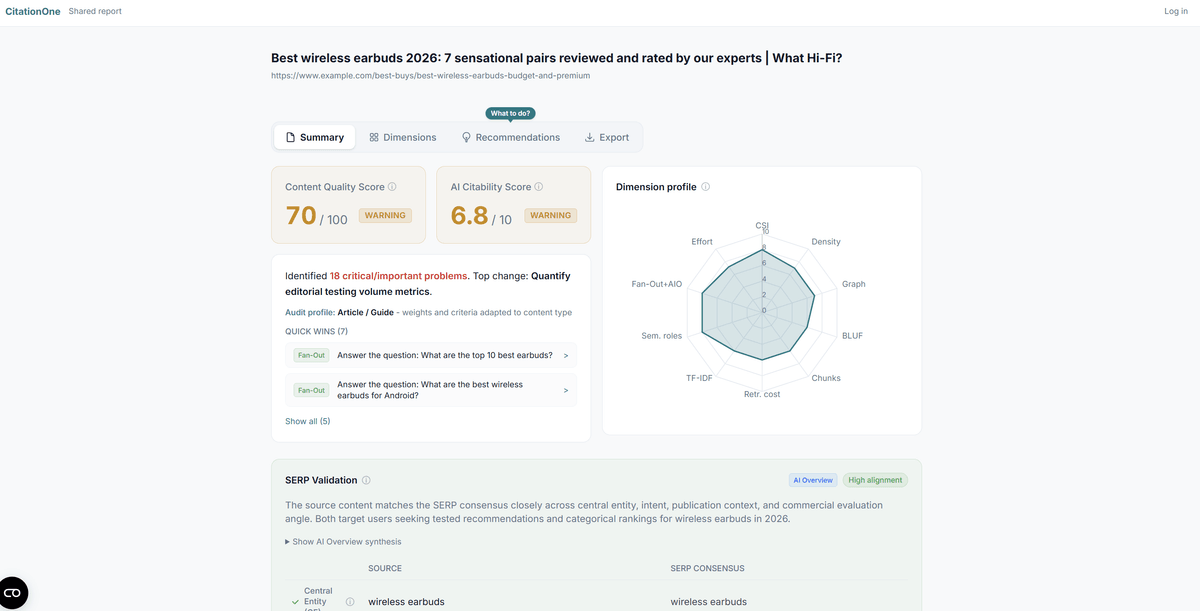
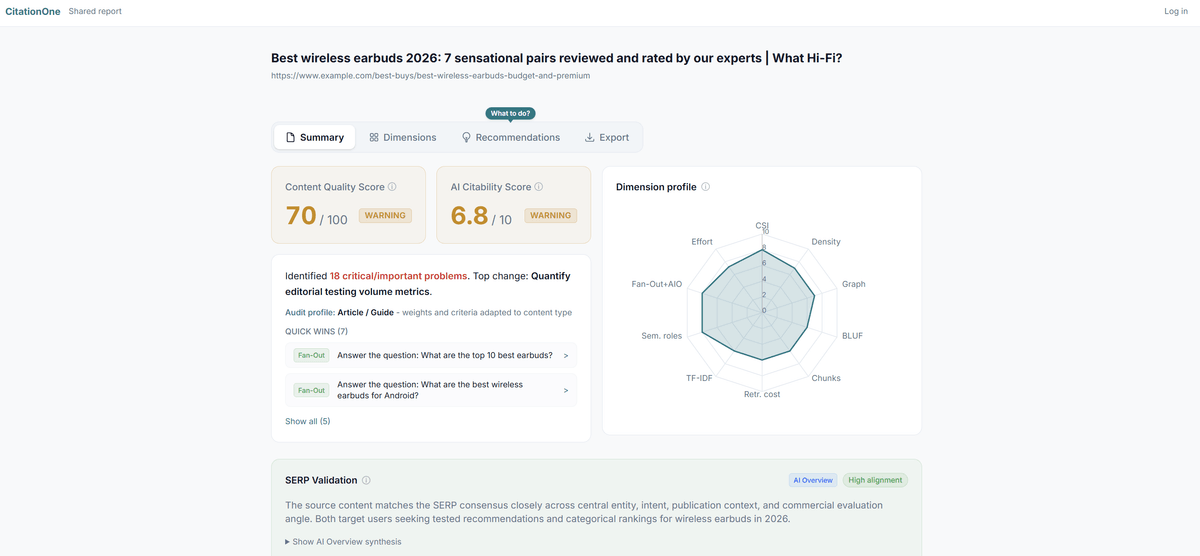
some fixes

diff --git a/src/components/en/RadarIllustrationEN.tsx b/src/components/en/RadarIllustrationEN.tsx
@@ -13,13 +13,13 @@ const SCORE_SETS = [
 const LABELS = [
   { short: 'Intent', def: 'CSI Alignment - checks if the content matches the exact search intent. Evaluates how precisely the article answers what the user is looking for.' },
   { short: 'Density', def: 'Information Density - ratio of concrete facts and numbers to filler. The more verifiable claims, the higher the score.' },
-  { short: 'KGraph', def: 'Knowledge Graph - completeness of entity-attribute-value (EAV) structure. Measures how thoroughly the article describes key objects and their properties.' },
+  { short: 'EAV', def: 'Knowledge Graph - completeness of entity-attribute-value (EAV) structure. Measures how thoroughly the article describes key objects and their properties.' },
   { short: 'BLUF', def: 'Bottom Line Up Front - whether the key answer appears in the first sentences of each section. RAG systems prefer content with the answer upfront.' },
   { short: 'Chunks', def: 'Chunk Optimization - section autonomy. Each section should be understandable without the context of the rest of the article (optimum: 200-500 words).' },
   { short: 'CoR', def: 'Cost of Retrieval - ease of information extraction by AI. Evaluates heading structure, tables, lists and bold formatting that help AI retrieve facts.' },
   { short: 'TF-IDF', def: 'TF-IDF - domain terminology saturation. Compares article vocabulary with top 10 SERP - the more specialized terms, the higher the score.' },
   { short: 'Roles', def: 'Semantic Roles - narrative perspective. Measures whether the central entity (product/service) plays an active subject role in sentences.' },
-  { short: 'AIO', def: 'AI Overview Coverage - checks if the article answers all sub-queries generated by AI around the main topic.' },
+  { short: 'Fan-Out', def: 'Fan-Out & AIO Coverage - checks if the article answers all sub-queries generated by AI around the main topic.' },
   { short: 'Effort', def: 'Editorial Effort - evaluates content structure and formatting: length, images, video, lists, tables, heading hierarchy, highlights. Compared against SERP competition.' },
 ];
 
